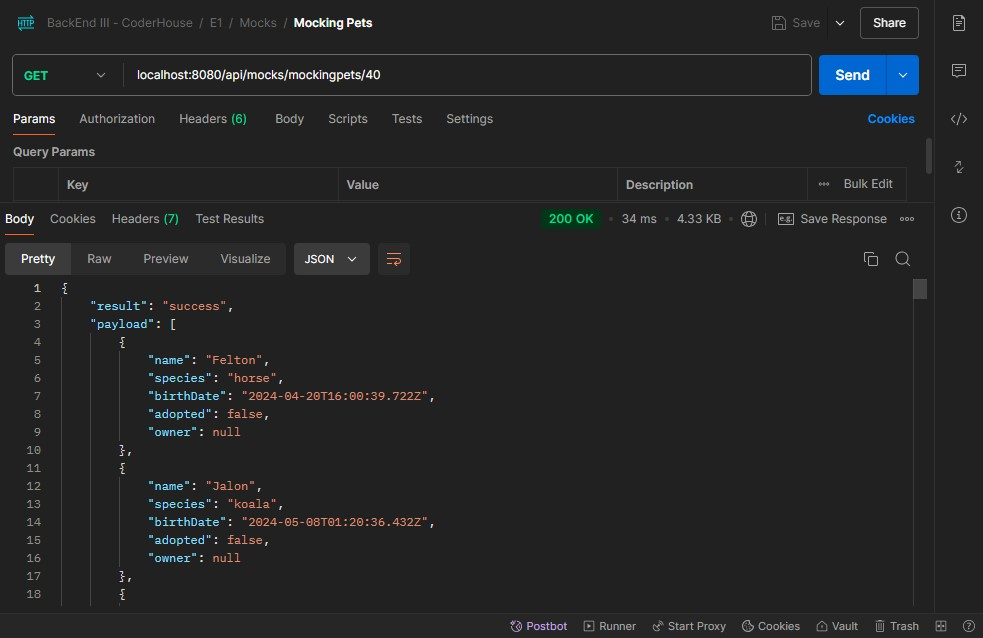
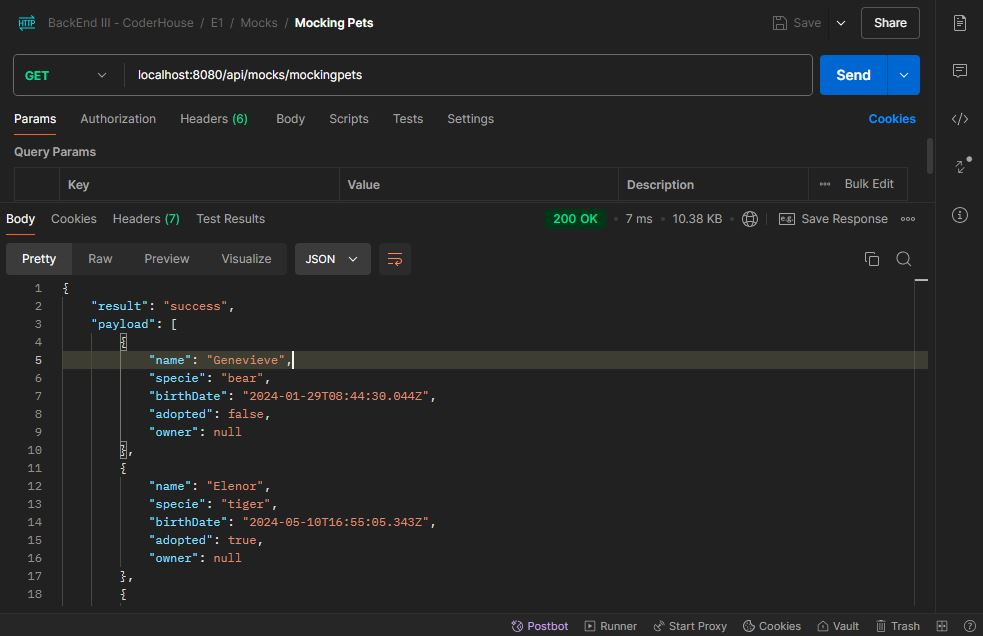
Se completa la descripción del README con su carga de evidencias.

diff --git a/src/controllers/mocks.controller.js b/src/controllers/mocks.controller.js
@@ -1,6 +1,15 @@
 import MockService from '../services/mock.service.js'
 
 export const mockingUsers = async(req,res)=>{
+    req.params.num = 50
+    const num = req.params.num
+    const result = await MockService.generateMockingUsers(num)
+    if (result)
+        res.status(200).json({ result: "success", payload: result })
+    else
+        res.status(400).json({ result: "error", errors: "Can't get mock users" })
+}
+export const mockingUsersRequestNum = async(req,res)=>{
     const num = req.params.num
     const result = await MockService.generateMockingUsers(num)
     if (result)
@@ -9,6 +18,15 @@ export const mockingUsers = async(req,res)=>{
         res.status(400).json({ result: "error", errors: "Can't get mock users" })
 }
 export const mockingPets = async(req, res)=>{
+    const num = req.params.num
+    const result = await MockService.generateMockingPets(num)
+    if (result)
+        res.status(200).json({ result: "success", payload: result })
+    else
+        res.status(400).json({ result: "error", errors: "Can't get mock users" })
+}
+export const mockingPetsRequestNum = async(req, res)=>{
+    req.param.num = 100
     const num = req.params.num
     const result = await MockService.generateMockingPets(num)
     if (result)

diff --git a/src/routes/mocks.router.js b/src/routes/mocks.router.js
@@ -1,16 +1,24 @@
 import { Router } from 'express'
-import { mockingUsers, mockingPets, generateData } from '../controllers/mocks.controller.js'
+import { mockingUsers, mockingUsersRequestNum, mockingPets, mockingPetsRequestNum, generateData } from '../controllers/mocks.controller.js'
 
 const router = Router()
 
 /** GET 
+ * Endpoint encargado de generar 'N' usuarios
+ * **/
+router.get('/mockingusers/:num', mockingUsersRequestNum)
+/** GET 
  * Endpoint encargado de generar 50 usuarios
  * **/
-router.get('/mockingusers/:num', mockingUsers)
+router.get('/mockingusers', mockingUsers)
+/** GET 
+ * Endpoint encargado de generar 'N' mascotas
+ * **/
+router.get('/mockingpets/:num', mockingPetsRequestNum)
 /** GET 
  * Endpoint encargado de generar 100 mascotas
  * **/
-router.get('/mockingpets/:num', mockingPets)
+router.get('/mockingpets', mockingPets)
 /** POST 
  * Endpoint encargado de generar los datos en BD
  * **/

diff --git a/README.md b/README.md
@@ -20,8 +20,8 @@
 ## Tabla de Contenidos
 1. [Introducción](#introducción)
 2. [Instalación](#instalación)
-3. [Estructura](#estructura-del-proyecto)
-4. [Endpoint](#endpoints)
+3. [Variables de Entorno](#variables-de-entorno)
+4. [Evidencias](#evidencias)
 5. [Conclusiones](#conclusiones)
 
 ## Introducción
@@ -51,8 +51,32 @@ Para instalar Node.js, sigue estos pasos:
     ```sh
     npm install bcrypt cookie-parser express jsonwebtoken mongoose multer supertest
 
-### Variables de entorno
+## Variables de entorno
 - Para la base de datos, se requiere la variable de entorno MONGO_URI, que se puede configurar en el archivo .env o en el archivo de configuración de la aplicación.
     ```sh
     mongodb+srv://alastairblackwell:gpO4EZ07YSlrYhKU@cluster0.hprwu.mongodb.net/
+- Para ejecutar la aplicación, se requiere la variable de entorno PORT, que se puede configurar en el archivo .env o en el archivo de configuración de la aplicación.
+    ```sh
+    8080
 
+## Evidencias de los requerimientos
+- Para verificar que la aplicación esté funcionando correctamente, se pueden ejecutar los siguientes comandos:
+    ````sh
+    npm start
+- Para esta entrega se desarollaron los siguientes endpoints:
+- **GET /mockingpets** : El cual permite generar un mock de la base de datos, con respecto a la colección "pets", y devuelve un arreglo de objetos con la información de los mismos. Adicionalmente si se especifica el parámetro **"/:num"** se devuelve un arreglo con la cantidad de elementos especificados, en caso de que se ejecute solo, devolverá un arreglo con 100 elementos.
+- ![MockingPets01](./img/mockingpets01.jpg)**Endpoint invocado por defecto (100 registros)**
+- ![MockingPets02](./img/mockingpets02.jpg) **Endpoint invocado con un número específico de registros (2)**
+
+- **GET /mockingusers** : El cual permite generar un mock de la base de datos, con respecto a la colección "users", y devuelve un arreglo de objetos con la información de los mismos. Adicionalmente si se especifica el parámetro **"/:num"** se devuelve un arreglo con la cantidad de elementos especificados, en caso de que se ejecute solo, devolverá un arreglo con 50 elementos.
+- ![MockingUsers01](./img/mockingusers01.jpg)**Endpoint invocado por defecto (50 registros)**
+- ![MockingUsers02](./img/mockingusers02.jpg) **Endpoint invocado con un número específico de registros (1)**
+
+- **POST /generateData/:users/:pets** : El cual permite la generación de usuarios y sus respectivas mascotas, utilizando los métodos de generación aleatoria de usuarios y mascotas, y devuelve un arreglo de objetos con la información de los mismos, ahora con la diferencia de que son registros reales en la base de datos.
+- ![GenerateData01](./img/generateData01.jpg)
+
+## Conclusiones
+- Este proyecto demuestra el uso de Node.js y varias librerías para desarrollar una aplicación backend robusta. Si tienes alguna pregunta o necesitas más información, no dudes en contactarme.
+- Aunque el requirimiento principal es la aplicación backend, se añadieron el uso de los handlebars para la vista al usuario, sin embargo, se pueden realizar los consumos de los endpoints con alguna herramienta  de cliente como Postman o Insomnia (revisar directorio **external-resources**).
+    ```
+    Este archivo `README.md` proporciona una guía clara y estructurada para la instalación, estructura y uso del proyecto
